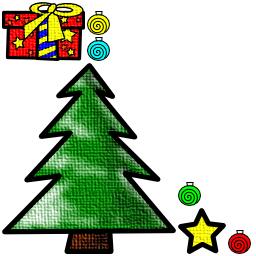
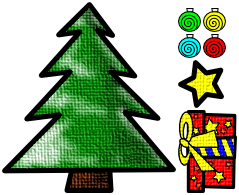
updated spine tree to v4.17

diff --git a/core/src/com/monstergoboom/snowday/game/SnowDay.java b/core/src/com/monstergoboom/snowday/game/SnowDay.java
@@ -87,8 +87,8 @@ public class SnowDay extends ApplicationAdapter{
         //reindeer = new Reindeer(700, 100, physicsSystem.getWorld(),
                 //snowDayAssetManager.getSkeletonData("reindeer"));
 
-        //tree1 = new ChristmasTree(900, 75, physicsSystem.getWorld(),
-                //snowDayAssetManager);
+        tree1 = new ChristmasTree(900, 75, physicsSystem.getWorld(),
+                snowDayAssetManager);
 
         snowGround = new SnowGround(physicsSystem.getWorld());
         snowflakeGenerator = new SnowflakeGenerator(
@@ -143,7 +143,7 @@ public class SnowDay extends ApplicationAdapter{
         background.draw(spriteBatch);
         snowGround.draw(spriteBatch);
 
-        //tree1.draw(spriteBatch);
+        tree1.draw(spriteBatch);
         elf.draw(spriteBatch);
         //snowman.draw(spriteBatch);
         //reindeer.draw(spriteBatch);
@@ -171,7 +171,7 @@ public class SnowDay extends ApplicationAdapter{
         elf.update(animationDelta);
         //snowman.update(animationDelta);
         //reindeer.update(animationDelta);
-        //tree1.update(animationDelta);
+        tree1.update(animationDelta);
         santaClause.update(animationDelta);
         snowflakeGenerator.update(animationDelta);
         playerHud.update(animationDelta);

diff --git a/core/src/com/monstergoboom/snowday/game/SnowDayAssetManager.java b/core/src/com/monstergoboom/snowday/game/SnowDayAssetManager.java
@@ -29,10 +29,10 @@ public class SnowDayAssetManager {
 
     public void load() {
         if(!isLoaded) {
-            String[] textureAtlases = new String[] {"snow_ground", "santa", "misc", "elf", "misc_2", "weapons"};
+            String[] textureAtlases = new String[] {"snow_ground", "santa", "misc", "elf", "misc_2", "weapons", "tree"};
             String[] textures = new String[] {"backdrop_1", "snowflake_generator"};
             String[] fonts = new String[] { "curlz_mt", "curlz_mt_16", "display_font", "display_font_16" };
-            String[] skeletalData = new String[] {"santa", "elf"};
+            String[] skeletalData = new String[] {"santa", "elf", "tree"};
 
 
             // load texture atlases
